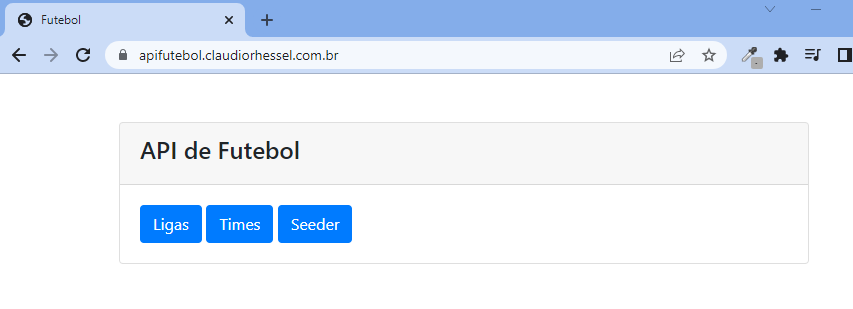
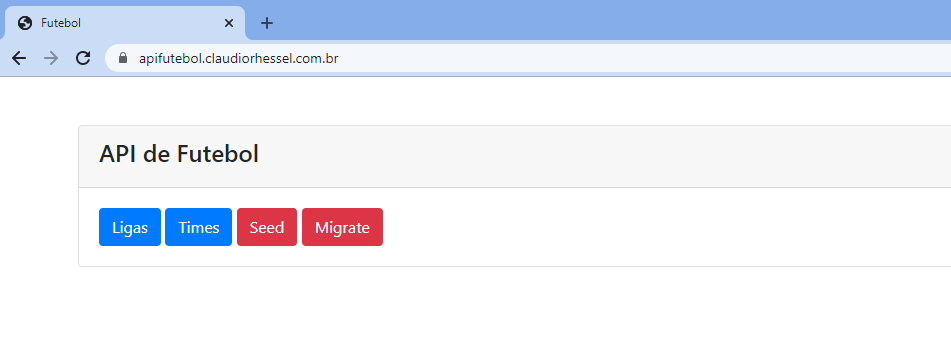
docs: update readme

diff --git a/README.md b/README.md
@@ -36,6 +36,8 @@ Primeiramente deve-se baixar o projeto em seu ambiente a partido do git:
 ~$bash git clone -b master https://github.com/claudiorhessel/apifutebol.git
 ```
 
+Não utilizei qualque biblioteca ou dependência que precisa ser instalada para o sistema funcionar, a intenção do projeto e fazer todos os itens somente com PHP, Bootstrap e MySQL.
+
 Depois criar um virtual host apontado para a raiz do projeto. Caso você não saiba como fazer isso favor visualizar o passo-a-passo do link abaixo:
 
 [https://marcelo-albuquerque.medium.com/como-configurar-virtual-hosts-no-wsl-2-com-ubuntu-20-04-f9423829f3a6](https://marcelo-albuquerque.medium.com/como-configurar-virtual-hosts-no-wsl-2-com-ubuntu-20-04-f9423829f3a6)
@@ -51,14 +53,24 @@ $banco = 'futebol';
 $usuario = 'root';
 $senha = 'root';
 ```
+Também o arquivo abaixo:
+
+[https://github.com/claudiorhessel/apifutebol/blob/master/config/config.php](https://github.com/claudiorhessel/apifutebol/blob/master/config/config.php)
+
+```
+define('DB_HOST', 'localhost');
+define('DB_NAME', 'futebol');
+define('DB_USER', 'root');
+define('DB_PASS', 'root');
+```
 
 Utilizar o arquivo abaixo para criação do banco de dados:
 
 [https://github.com/claudiorhessel/apifutebol/blob/master/database/create_tables.sql](https://github.com/claudiorhessel/apifutebol/blob/master/database/create_tables.sql)
 
-Executar a URL abaixo para que o seeder seja executado:
+Ou utilizar o botão "Migrate" da tela inicial.
 
-[DOMINIO]/seed=true
+Também deve-se utilizado o botão "Seed" da tela inicial para se baixar os dados da API externa e salvar no banco de dados.
 
 Se tudo estiver corrigo conforme o esperado ao acessar a URL do projeto a tela inicial será exibida:
 
